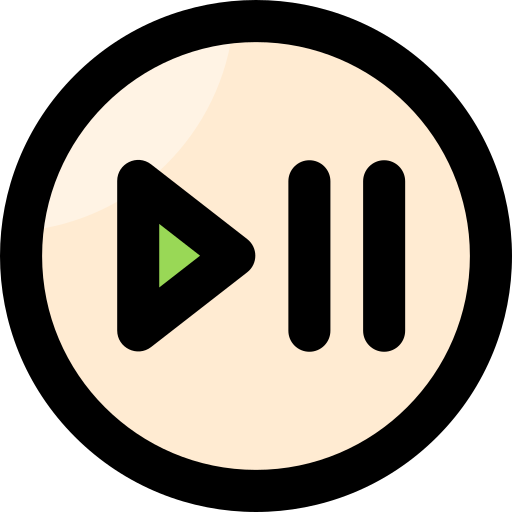
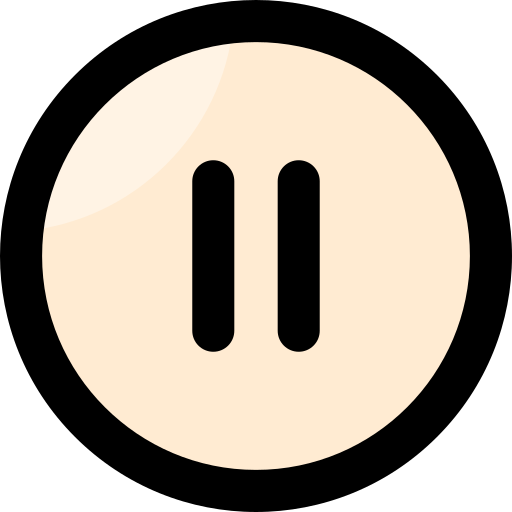
Mejora botones

Changed region(s): [[0.2188, 0.3125, 0.5, 0.6875], [0.6875, 0.3125, 0.8125, 0.6875], [0.5312, 0.3125, 0.6562, 0.6875]]

diff --git a/Script/main.js b/Script/main.js
@@ -3,16 +3,70 @@ const playButton = document.querySelector('.play')
 const nextButton = document.querySelector('.next')
 const prevButton = document.querySelector('.prev')
 const muteButton = document.querySelector('.mute')
-const maxButton = document.querySelector('.maxVolume')
 const volumeDownButton = document.querySelector('.volumeDown')
 const volumeUpButton = document.querySelector('.volumeUp')
+const information = document.querySelector('.information')
 
 const musicSource = '../Songs/'
+let musicVolume = 1.0
 
-playlist = ['1.mp3', '2.mp3', '3.mp3', '4.mp3', '5.mp3', '6.mp3', '7.mp3', '8.mp3']
+const playlist = [
+	{
+		file: '1.mp3',
+		songName: 'Sin Sobresaltos',
+		artist: 'Soda Stereo',
+	}, 
+	{
+		file: '2.mp3',
+		songName: 'El Rito',
+		artist: 'Soda Stereo',		
+	}, 
+	{
+		file: '3.mp3',
+		songName: 'Prófugos',
+		artist: 'Soda Stereo',
+	}, 
+	{
+		file: '4.mp3',
+		songName: 'No Existes',
+		artist: 'Soda Stereo',
+	}, 
+	{
+		file: '5.mp3',
+		songName: 'Persiana Americana',
+		artist: 'Soda Stereo',		
+	}, 
+	{
+		file: '6.mp3',
+		songName: 'En Camino',
+		artist: 'Soda Stereo',		
+	}, 
+	{
+		file: '7.mp3',
+		songName: 'Signos',
+		artist: 'Soda Stereo',		
+	}, 
+	{
+		file: '8.mp3',
+		songName: 'Final Caja Negra',
+		artist: 'Soda Stereo',		
+	},
+]
 
-audio.src = musicSource + playlist[0]
-playlistCounter = 0
+audio.src = musicSource + playlist[0].file
+let playlistCounter = 0
+
+function playPause() {
+	if (audio.paused) {
+		playButton.classList.remove('play')
+		playButton.classList.add('pause')			
+		audio.play()
+	} else {
+		playButton.classList.remove('pause')
+		playButton.classList.add('play')	
+		audio.pause()
+	}
+}
 
 function nextSong() {
 	if (playlistCounter === playlist.length-1) {
@@ -20,8 +74,8 @@ function nextSong() {
 	} else {
 		playlistCounter++
 	}
-	audio.src = musicSource + playlist[playlistCounter]
-	audio.play()
+	audio.src = musicSource + playlist[playlistCounter].file
+	playPause()
 }
 
 function prevSong() {
@@ -30,62 +84,57 @@ function prevSong() {
 	} else {
 		playlistCounter--
 	}	
-	audio.src = musicSource + playlist[playlistCounter]
-	audio.play()
+	audio.src = musicSource + playlist[playlistCounter].file
+	playPause()
 }
 
 function muteMusic() {
-	audio.volume = 0.0
-}
-
-function maxVolume() {
-	audio.volume = 1.0
+	if (audio.volume !== 0.0) {
+		audio.volume = 0.0
+		muteButton.classList.remove('mute')
+		muteButton.classList.add('maxVolume')	
+	} else {
+		muteButton.classList.remove('maxVolume')
+		muteButton.classList.add('mute')	
+		audio.volume = musicVolume
+	}	
 }
 
 function volumeDown() {
 	if (audio.volume !== 0.0) {
-		audio.volume -= 0.1
+		musicVolume -= 0.1
+		audio.volume = musicVolume
 	}
 }
 
 function volumeUp() {
-	if (audio.volume !== 1.0) {
-		audio.volume += 0.1
+	if (audio.volume === 0.0) {
+		musicVolume = 0.1
+		muteMusic()
+	} else if (audio.volume < 1.0) {
+		musicVolume += 0.1
+		audio.volume = musicVolume
 	}
 }
 
-playButton.onclick = function() {
-	if (audio.paused) {
-		audio.play()
-	} else {
-		audio.pause()
-	}
-}		
-
-nextButton.onclick = function() {
-	nextSong()
+function displayInfo() {
+	information.innerHTML = playlist[playlistCounter].songName + ' - ' + playlist[playlistCounter].artist 
 }
 
-prevButton.onclick = function() {
-	prevSong()
-}
+playButton.onclick = function() {playPause()}		
 
-audio.addEventListener('ended', function() {
-	nextSong()
-})
+nextButton.onclick = function() {nextSong()}
 
-muteButton.onclick = function() {
-	muteMusic()
-}
+prevButton.onclick = function() {prevSong()}
 
-maxButton.onclick = function() {
-	maxVolume()
-}
+audio.addEventListener('ended', function() {nextSong()})
 
-volumeDownButton.onclick = function() {
-	volumeDown()
-}
+muteButton.onclick = function() {muteMusic()}
 
-volumeUpButton.onclick = function() {
-	volumeUp()
-}
+volumeDownButton.onclick = function() {volumeDown()}
+
+volumeUpButton.onclick = function() {volumeUp()}
+
+audio.onplay = function() {displayInfo()}
+
+//console.log(Math.floor(Math.random() * (7 - 0)) + 0)

diff --git a/Html/index.html b/Html/index.html
@@ -7,14 +7,18 @@
 	</head>
 	<body>
 
-		<div class="contenido">
-			<button class="songButton play"></button>
-			<button class="songButton next"></button>
-			<button class="songButton prev"></button>
-			<button class="volumeButton mute"></button>
-			<button class="volumeButton maxVolume"></button>
-			<button class="volumeButton volumeDown"></button>
-			<button class="volumeButton volumeUp"></button>
+		<div class="content">
+			<div class="buttons">
+				<button class="songButton prev"></button>
+				<button class="songButton play"></button>
+				<button class="songButton next"></button>
+				<button class="volumeButton mute"></button>
+				<button class="volumeButton volumeDown"></button>
+				<button class="volumeButton volumeUp"></button>				
+			</div>
+			<div class="text">
+				<p class="information">Bienvenido a mi reproductor</p>
+			</div>
 			<audio controls><source type="audio/mpeg"></audio>	
 		</div>
 

diff --git a/Style/style.css b/Style/style.css
@@ -2,9 +2,13 @@ body {
 
 }
 
-/*audio { display:none;}*/
+audio { display:none;}
 
 .play{
+	background: url(../Img/play.png);
+}
+
+.pause{
 	background: url(../Img/pause.png);
 }
 
@@ -17,11 +21,11 @@ body {
 }
 
 .mute{
-	background: url(../Img/mute.png);
+	background: url(../Img/maxVolume.png);	
 }
 
 .maxVolume{
-	background: url(../Img/maxVolume.png);	
+	background: url(../Img/mute.png);
 }
 
 .volumeDown{
